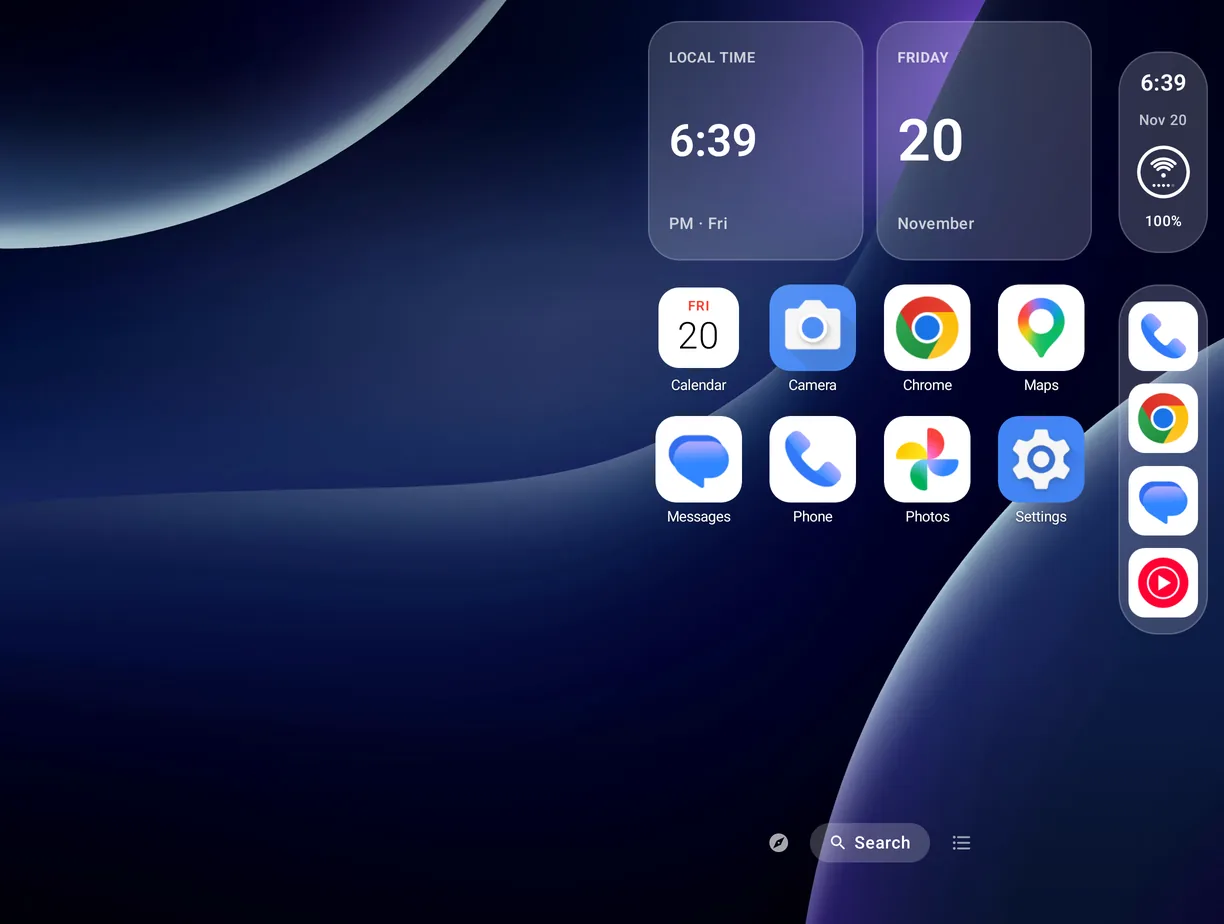
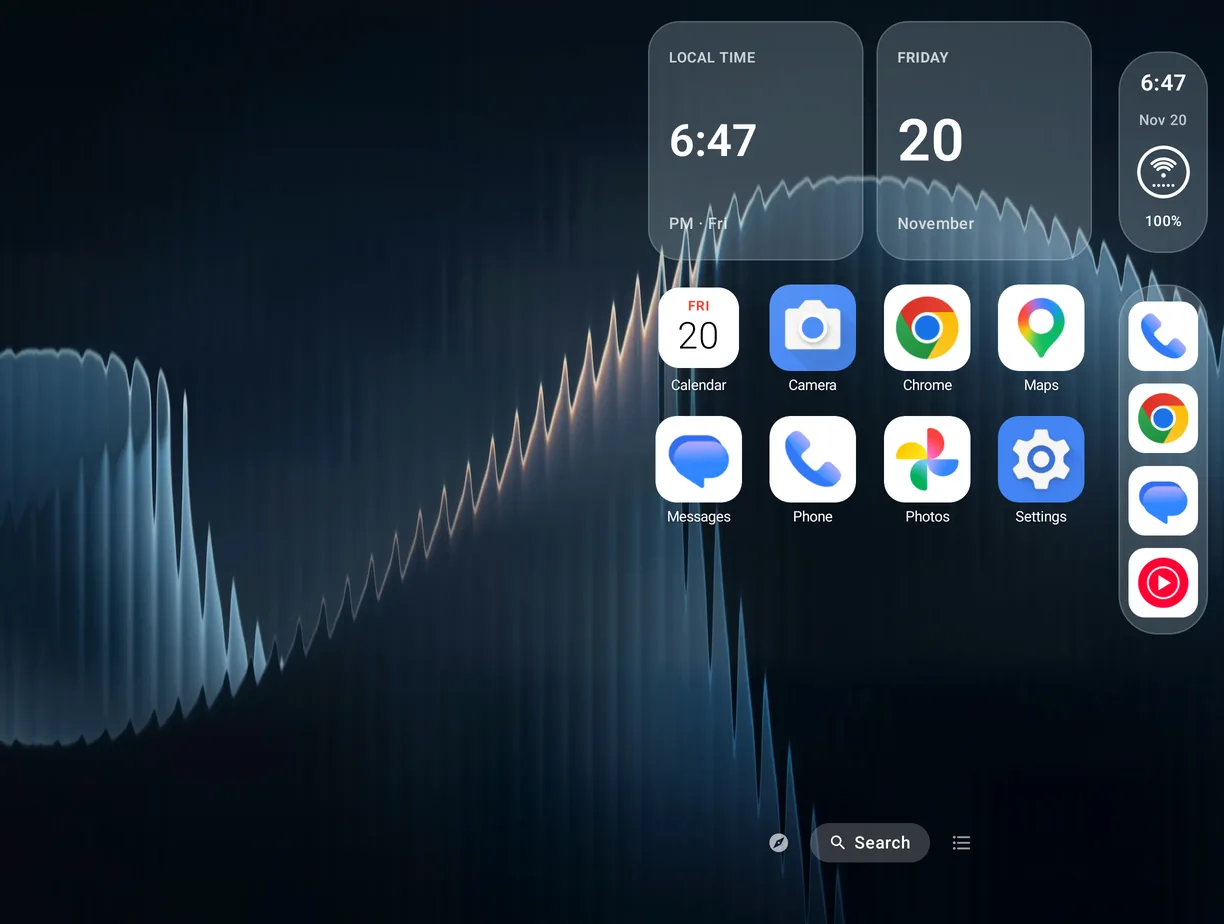
README: use the Blue Waves wallpaper in the screenshots
Retake all eight captures from 0.6.9.2 on the emulator.

diff --git a/README.md b/README.md
@@ -84,8 +84,8 @@ There's a lot to this launcher, and it's fun. I hope you have as much fun with i
 ## Screenshots
 
 <p align="center">
-  <img src="docs/images/folio-inner-home.webp" width="720" alt="Folio Home on the unfolded screen: clock and date widgets, a four-column app grid, the Side Bar dock on the right and the Dark Violet wallpaper"><br>
-  <sub>Folio on a Fold-sized screen, with the Dark Violet wallpaper that ships with it (BoliviaInteligente, Unsplash License)</sub>
+  <img src="docs/images/folio-inner-home.webp" width="720" alt="Folio Home on the unfolded screen: clock and date widgets, a four-column app grid, the Side Bar dock on the right and the Blue Waves wallpaper"><br>
+  <sub>Folio on a Fold-sized screen, with the Blue Waves wallpaper that ships with it (Oxana Golubets, Unsplash License)</sub>
 </p>
 
 <table>
@@ -101,13 +101,13 @@ There's a lot to this launcher, and it's fun. I hope you have as much fun with i
     <th colspan="3">Unfolded</th>
   </tr>
   <tr>
-    <td align="center" colspan="3"><img src="docs/images/folio-inner-today.webp" width="640" alt="Today View on the unfolded screen: a search field, the date, and the clock and date widgets over the Dark Violet wallpaper"><br><sub>Today View, one page left of Home</sub></td>
+    <td align="center" colspan="3"><img src="docs/images/folio-inner-today.webp" width="640" alt="Today View on the unfolded screen: a search field, the date, and the clock and date widgets over the Blue Waves wallpaper"><br><sub>Today View, one page left of Home</sub></td>
   </tr>
   <tr>
     <td align="center" colspan="3"><img src="docs/images/folio-inner-cc.webp" width="640" alt="Control Center on the unfolded screen: connectivity toggles, a music player, Focus, brightness and volume sliders, and quick controls"><br><sub>Control Center</sub></td>
   </tr>
   <tr>
-    <td align="center" colspan="3"><img src="docs/images/folio-inner-settings.webp" width="640" alt="Settings in split view on the unfolded screen: the sidebar on the left and the Wallpaper &amp; Appearance page with the bundled wallpapers on the right"><br><sub>Settings in split view, like iPad, with the bundled wallpapers</sub></td>
+    <td align="center" colspan="3"><img src="docs/images/folio-inner-settings.webp" width="640" alt="Settings in split view on the unfolded screen: the sidebar on the left and the Wallpaper &amp; Appearance page with a live Home preview on the right"><br><sub>Settings in split view, like iPad</sub></td>
   </tr>
   <tr>
     <td align="center" colspan="3"><img src="docs/images/folio-inner-tweak-library.webp" width="640" alt="The Tweak Library on the unfolded screen: Cabinet, Harborline, Roll Call, Palette, Afterglow, Flipbook and Duet, each with its inspiration and a Get or Open button"><br><sub>The Tweak Library: get only the tweaks you want</sub></td>
